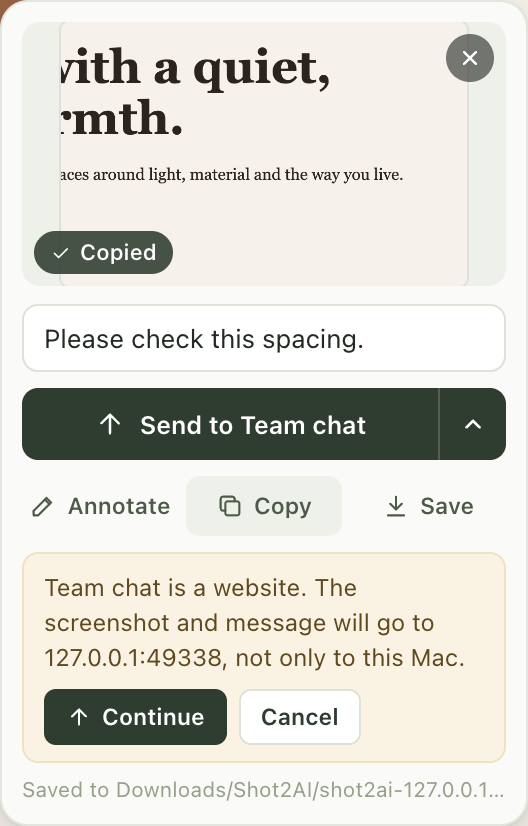
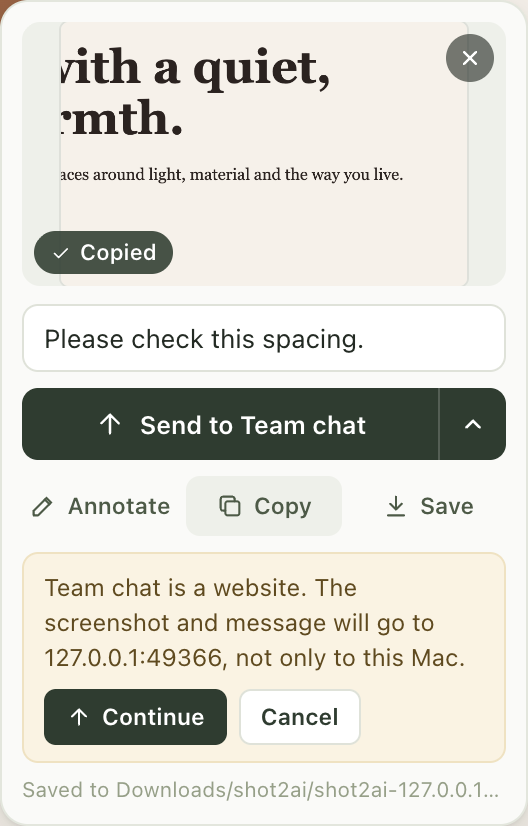
Shot2AI: copies save to Downloads/shot2ai/ by default
Claude-Session: https://claude.ai/code/session_01Xf7wTz9XZFZ1GCWzDzHaWW

diff --git a/src/options.html b/src/options.html
@@ -41,7 +41,7 @@
     <label class="toggle row"><input id="save-copy" type="checkbox"><span>Save a copy of every capture</span></label>
     <div class="row"><span class="row-label">Folder</span><span id="folder-name" class="value">Downloads</span><span id="folder-state" class="status" hidden></span>
       <span class="push"></span><button id="choose-folder" class="button" type="button">Choose folder…</button><button id="allow-folder" class="button" type="button" hidden>Allow again</button><button id="forget-folder" class="button text" type="button" hidden>Use Downloads</button></div>
-    <div class="row"><label class="row-label" for="subfolder">Downloads subfolder</label><input id="subfolder" class="field" placeholder="Shot2AI"><span class="hint">Used when no folder is chosen or its access has lapsed.</span></div>
+    <div class="row"><label class="row-label" for="subfolder">Downloads subfolder</label><input id="subfolder" class="field" placeholder="shot2ai"><span class="hint">Used when no folder is chosen or its access has lapsed.</span></div>
     <div class="row"><label class="row-label" for="pattern">File name</label><input id="pattern" class="field wide" placeholder="shot2ai-{host}-{date}-{time}"><span class="hint">{host}, {date}, {time}</span></div>
     <p class="note">Example: <code id="example"></code></p>
   </section>

diff --git a/src/settings.js b/src/settings.js
@@ -8,7 +8,7 @@ export const PRESETS = [
 ];
 const DEFAULTS = {
   saveCopy: false,
-  saveSubfolder: 'Shot2AI',
+  saveSubfolder: 'shot2ai',
   filenamePattern: 'shot2ai-{host}-{date}-{time}',
   presets: {},
   customChats: [],

diff --git a/README.md b/README.md
@@ -40,7 +40,7 @@ Options → **Saving**:
 
 - **Save a copy of every capture**: every capture is saved as soon as you select the area. The **Save** buttons in the card and the editor work whether or not this is on.
 - **Folder**: choose any folder on your computer. If Chrome's access to it lapses, choose **Allow again**. Until you do, copies go to Downloads.
-- **Downloads subfolder** (default `Shot2AI/`): used when no folder is chosen, or when access to the chosen folder has lapsed.
+- **Downloads subfolder** (default `shot2ai/`): used when no folder is chosen, or when access to the chosen folder has lapsed.
 - **File name**: a pattern with `{host}`, `{date}` and `{time}`. The default gives names like `shot2ai-example.com-2026-09-23-114512.png`.
 
 ## Privacy
